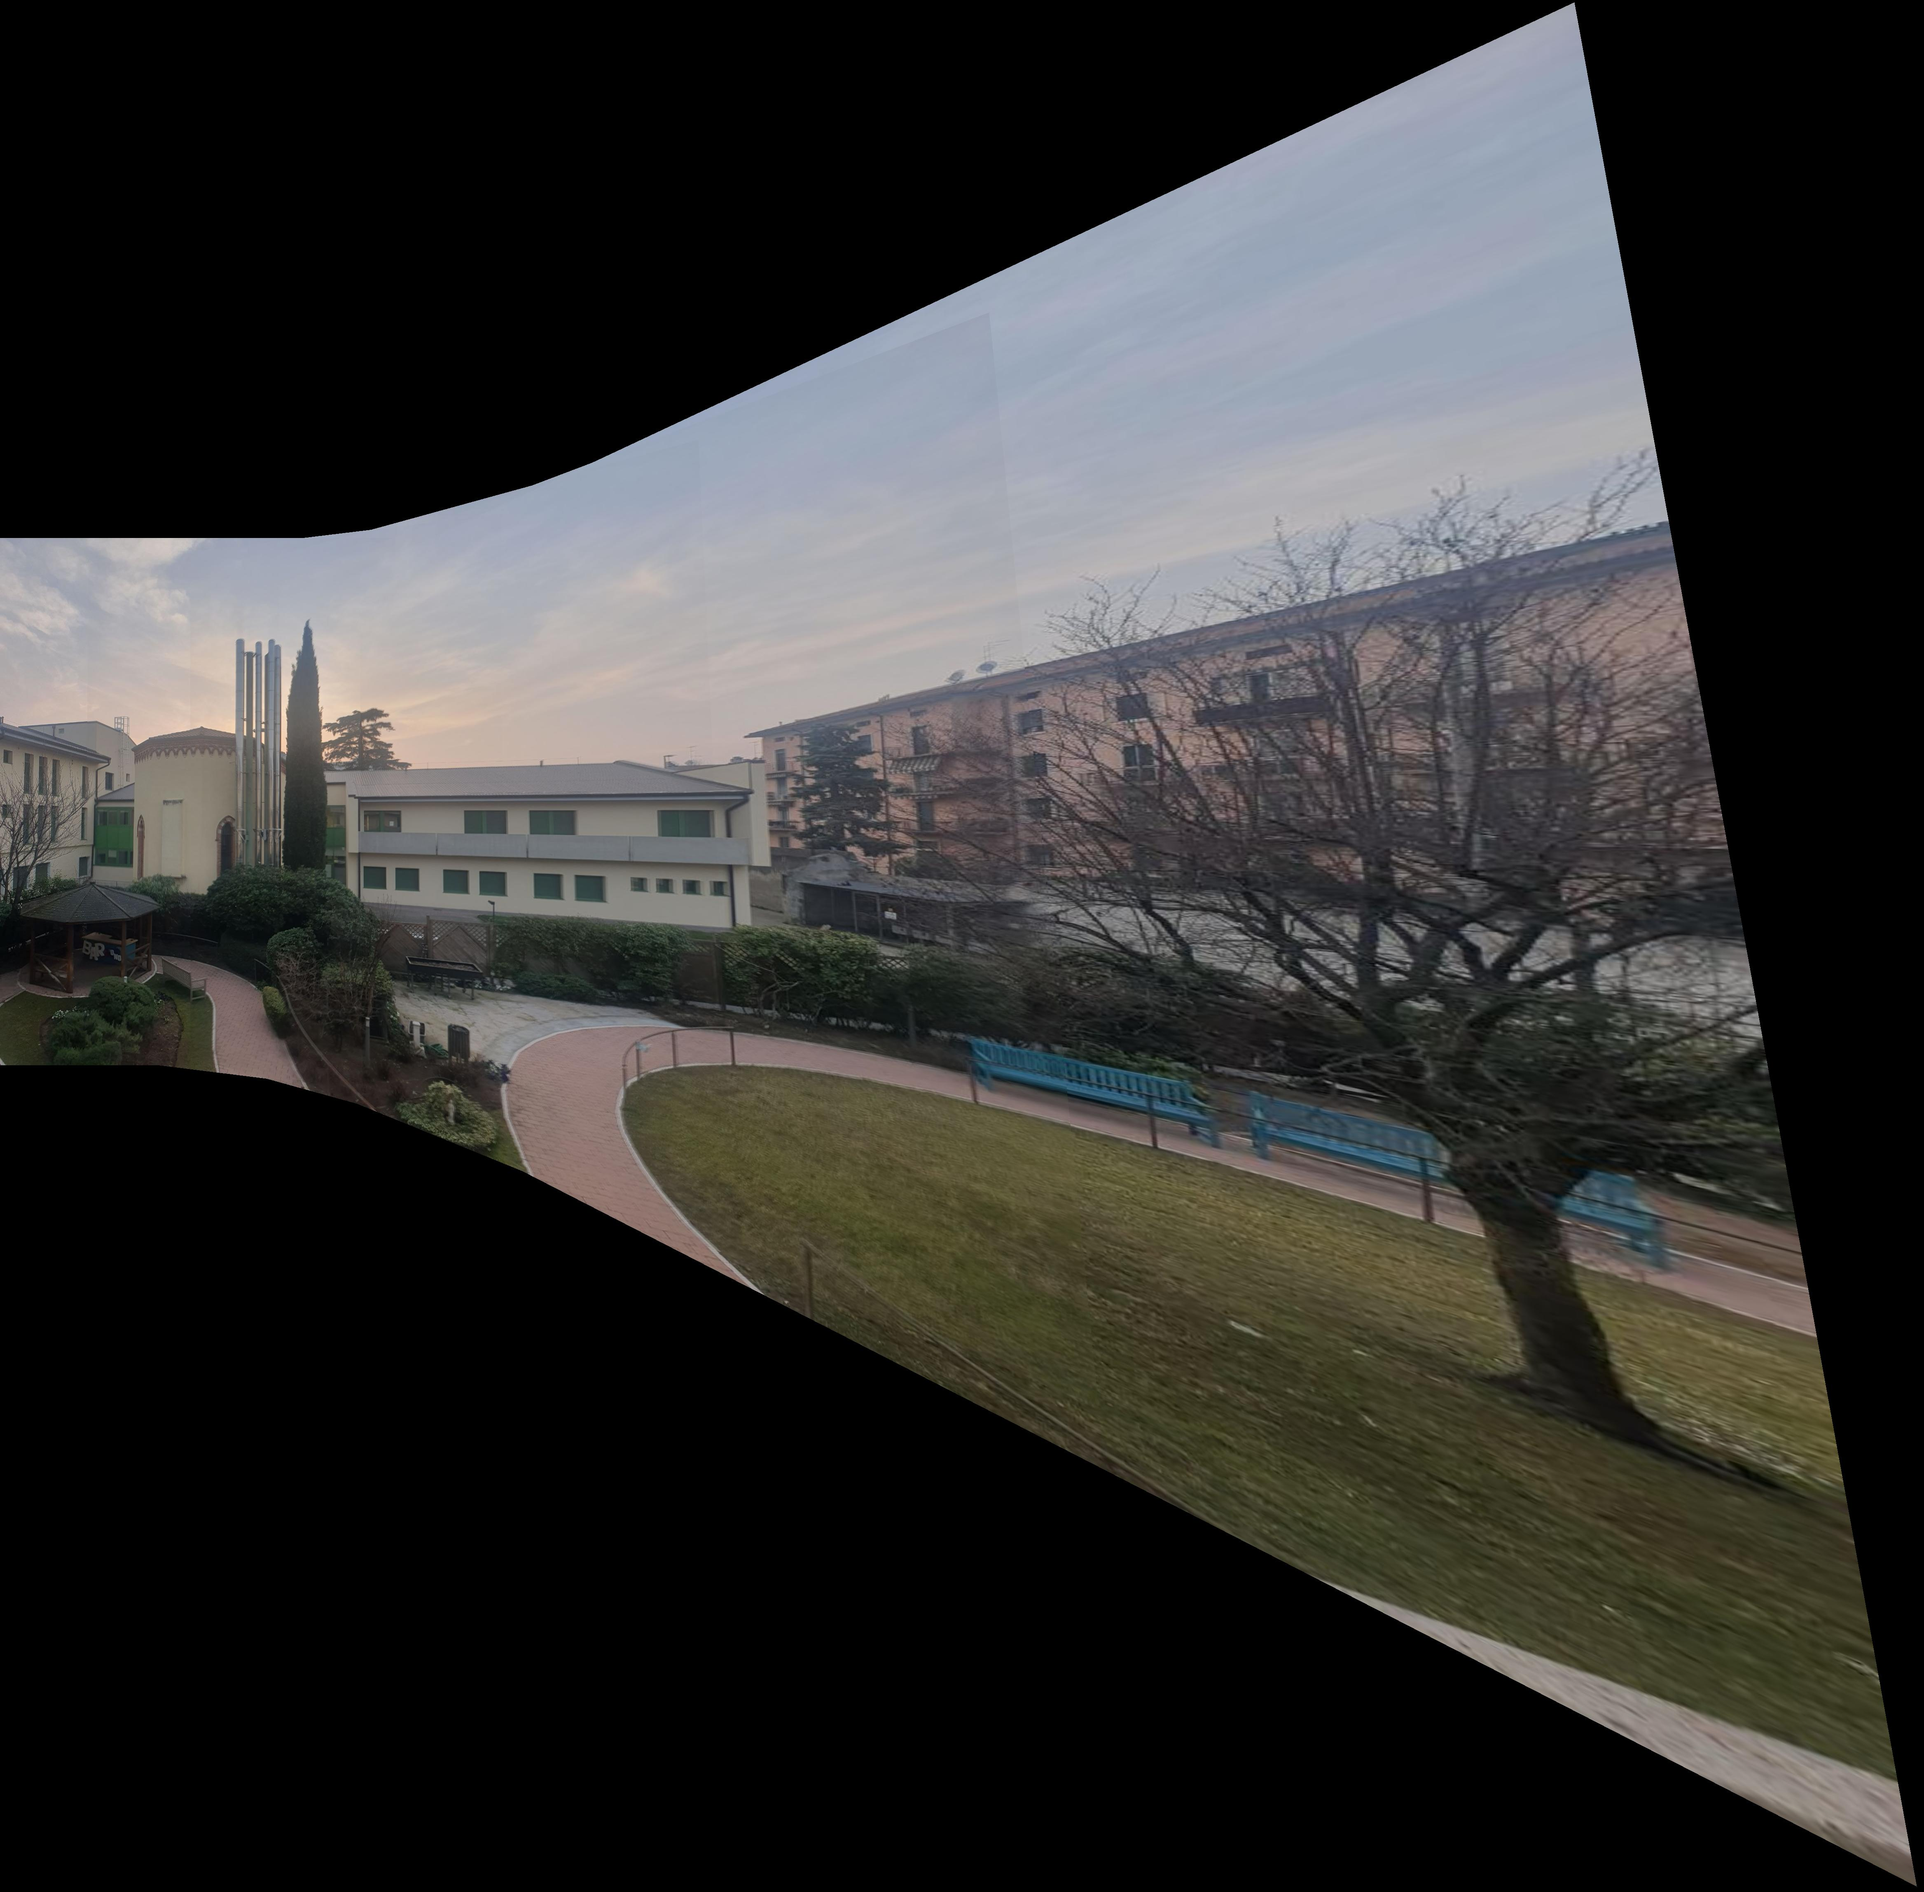
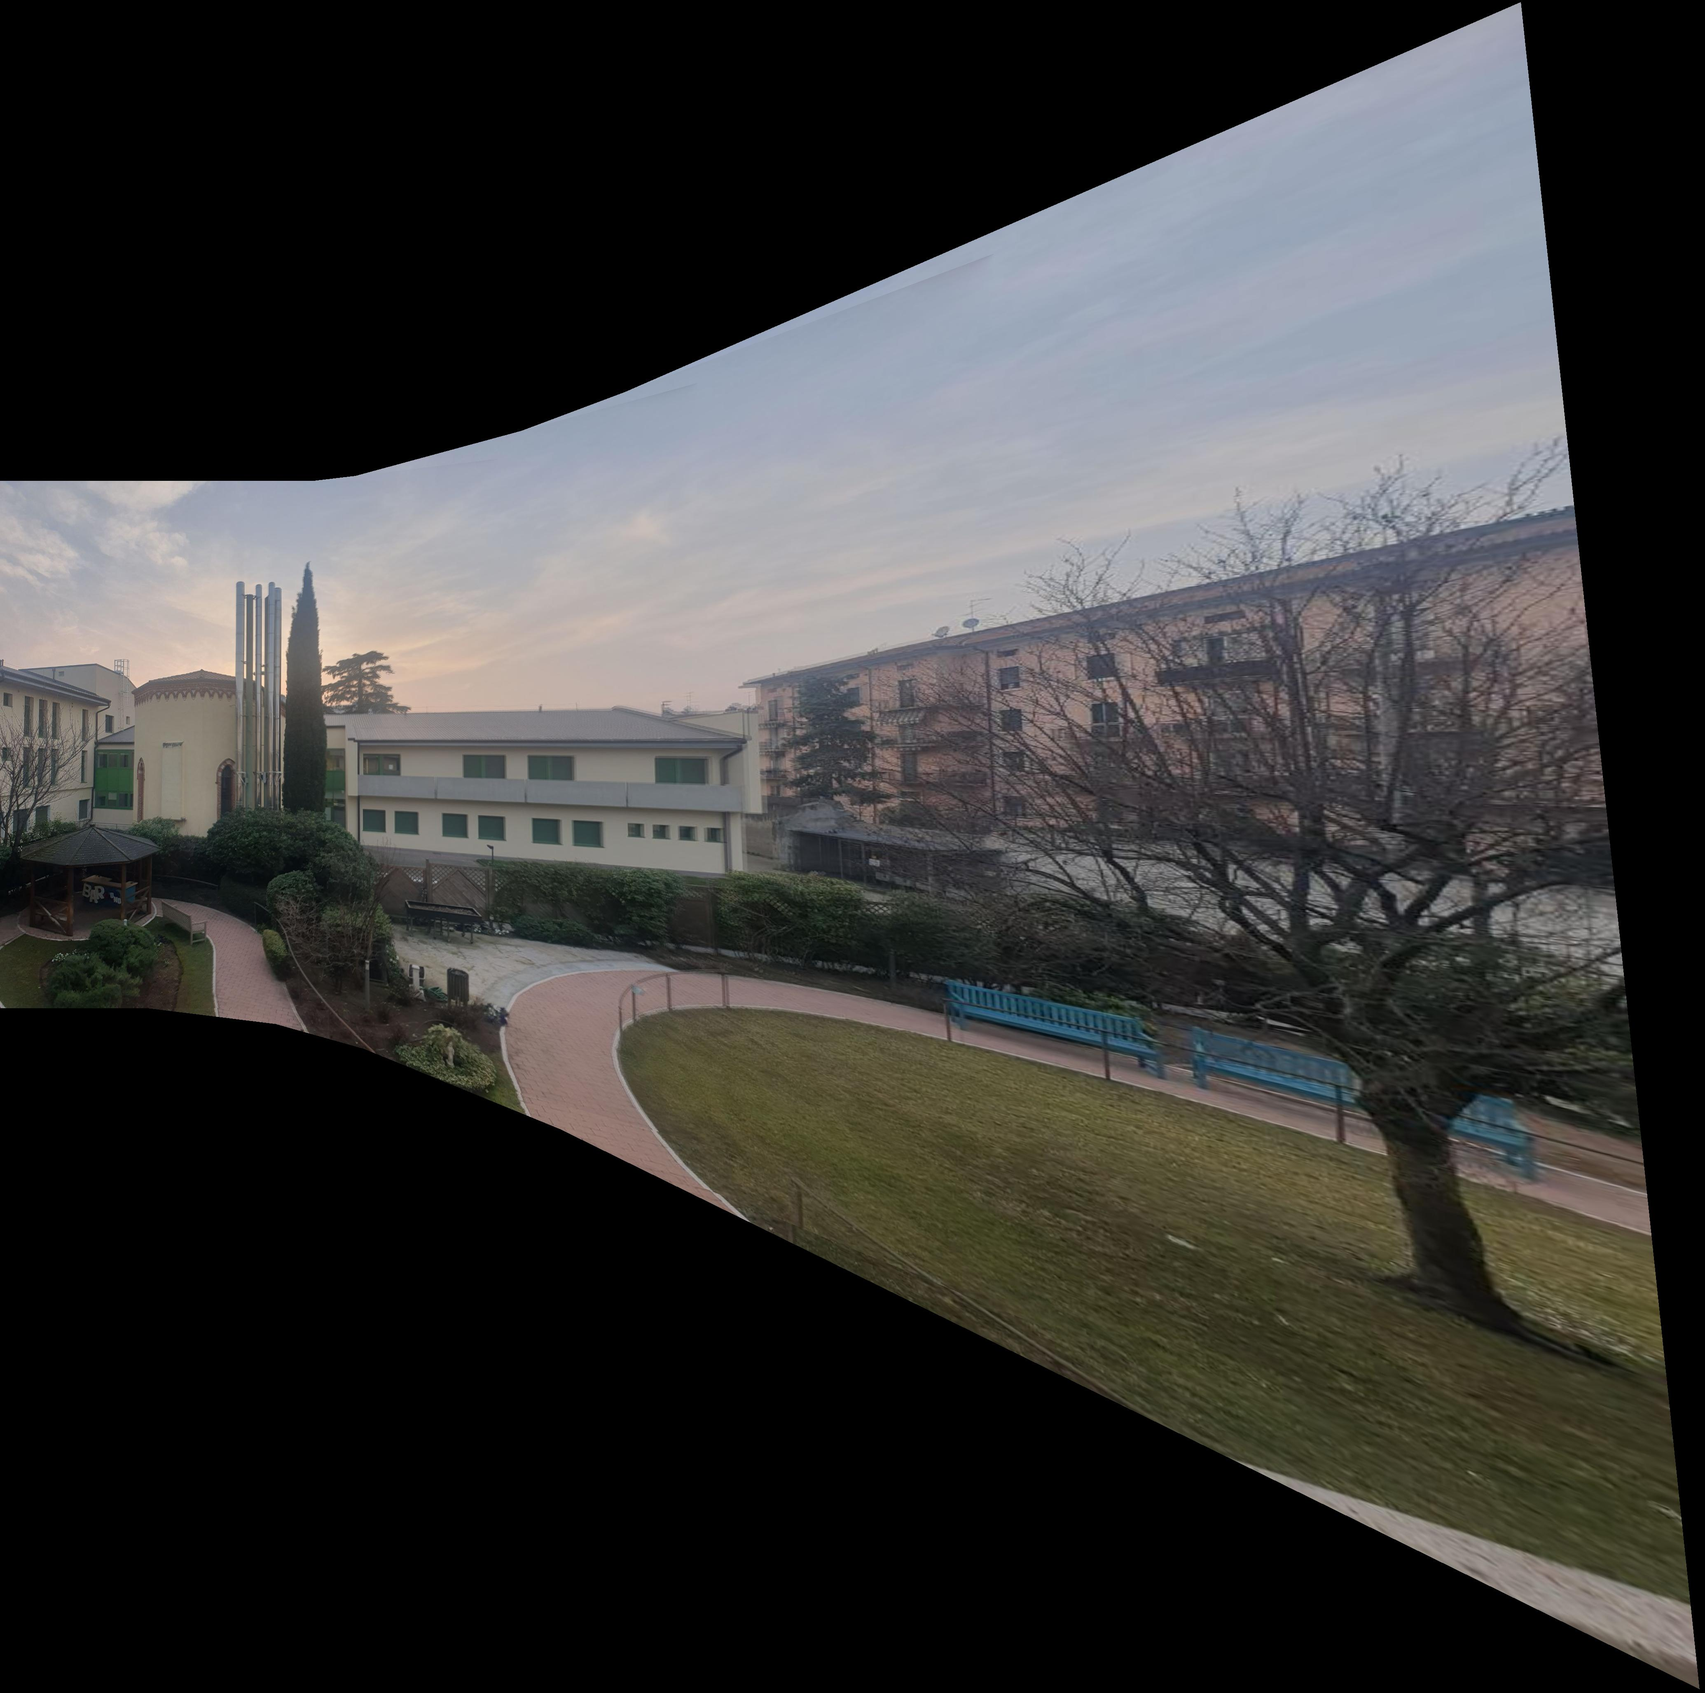
Implemented alpha blending

diff --git a/scripts/image_merge.m b/scripts/image_merge.m
@@ -3,8 +3,9 @@
 %                           image_merge.m
 %
 %   This function merges two images given the homography H between them.
-%   The function also performs image blending if requested, by averaging
-%   the pixel intensities in the overlapping areas.
+%   The function also performs image blending with 2 available modes:
+%       - 'average': averages pixel intensities in the overlapping region
+%       - 'linear': applies linear alpha blending
 %
 %   Author: Lorenzo Busellato, VR472249, 2023
 %
@@ -50,7 +51,8 @@ function I = image_merge(img1_rgb, img2_rgb, H, params)
     end
     % Compose the images
     I = mosaic_ref + mosaic_mov;
-    if params.blending
+    % Apply blending
+    if strcmp(params.blending, 'average')
         % Get a mask for the overlapping part
         mask_ref = mosaic_ref ~= 0;
         mask_mov = mosaic_mov ~= 0;
@@ -58,6 +60,43 @@ function I = image_merge(img1_rgb, img2_rgb, H, params)
         % Working channel-by-channel introduces some holes in the mask
         mask = imfill(mask,'holes'); 
         % Blend the overlap by taking the weighted average of the images intensities
-        I(mask) = (1-params.alpha).*mosaic_ref(mask) + params.alpha.*mosaic_mov(mask);
+        I(mask) =0.5*(mosaic_ref(mask) + mosaic_mov(mask));
+    elseif strcmp(params.blending, 'linear')
+        % Get a mask for the overlapping part
+        mask_ref = mosaic_ref ~= 0;
+        mask_mov = mosaic_mov ~= 0;
+        mask = mask_ref & mask_mov;
+        % Working channel-by-channel introduces some holes in the mask
+        mask = imfill(mask,'holes'); 
+        % Remove the overlap, the blending will take care of it
+        I(mask) = 0;
+        % Create an alpha mask
+        alpha_mask = zeros(size(mask,1),size(mask,2));
+        for j = 1:size(mask,1)
+            minIdx = -1;
+            maxIdx = -1;
+            % For the current row, get the first and last column of the overlap
+            for k = 1:size(mask,2)
+                if mask(j,k) && minIdx == -1
+                    minIdx = k;
+                end
+                if  mask(j,k)
+                    maxIdx = k;
+                end
+            end
+            if minIdx == maxIdx
+                continue
+            end
+            % Create a gradient in the overlap
+            decrease_step = 1/(maxIdx - minIdx);
+            for m = minIdx:maxIdx+1
+                alpha_mask(j,m) = 1 - decrease_step*(m-minIdx);
+            end
+        end
+        % Extract the parts of the images that overlap
+        mr = uint8(double(mask).*mosaic_ref);
+        mm = uint8(double(mask).*mosaic_mov);
+        % Apply alpha blending
+        I = uint8(I) + uint8(alpha_mask.*double(mr) + (1-alpha_mask).*double(mm));
     end
 end

diff --git a/scripts/mosaicing.m b/scripts/mosaicing.m
@@ -28,11 +28,10 @@ function mosaic = mosaicing(params)
         params.ransac_thresh = i * 2 * params.ransac_thresh;
         % Load the next image
         img2_rgb = imread(strjoin({set(i).folder,set(i).name},'/'));
-        img2 = single(im2gray(img2_rgb));
         fprintf("Computing feature descriptors\n");
         % Compute both images features and descriptors
         [feat1, desc1] = vl_sift(single(im2gray(uint8(mosaic))));
-        [feat2, desc2] = vl_sift(img2);
+        [feat2, desc2] = vl_sift(single(im2gray(img2_rgb)));
         % Match the descriptors
         [matches, scores] = vl_ubcmatch(desc1, desc2);
         % Apply RANSAC to the y coordinates
@@ -46,7 +45,7 @@ function mosaic = mosaicing(params)
         fprintf("Computing homography with %s\n", set(i).name);
         if params.ransac
             % Robust homography computation with RANSAC
-            H = ransac_homography(feat1, feat2, matches, params);
+            H(:,:,i)  = ransac_homography(feat1, feat2, matches, params);
         else
             % Pick 4 random features and correspondences
             r1 = ceil(rand*length(matches));
@@ -62,10 +61,10 @@ function mosaic = mosaicing(params)
                   feat2(1:2, matches(2,r3))'
                   feat2(1:2, matches(2,r4))'];
             % Compute the homography between them
-            H = homography(p1', p2');
+            H(:,:,i) = homography(p1', p2');
         end
         % Merge the images
-        mosaic = image_merge(mosaic, img2_rgb, H, params);
+        mosaic = image_merge(mosaic, img2_rgb, H(:,:,i), params);
     end
     mosaic = uint8(mosaic);
     % Save the result

diff --git a/scripts/imwarp.m b/scripts/imwarp.m
@@ -23,6 +23,8 @@ function [I2, bb] = imwarp(I,H)
     xi=ivec(pp(1,:)',size(x,1));
     yi=ivec(pp(2,:)',size(y,1));
     I2(:,:,1)=interp2(0:size(I(:,:,1),2)-1, 0:size(I(:,:,1),1)-1,double(I(:,:,1)),xi,yi,'linear',NaN);
-    I2(:,:,2)=interp2(0:size(I(:,:,2),2)-1, 0:size(I(:,:,2),1)-1,double(I(:,:,2)),xi,yi,'linear',NaN);
-    I2(:,:,3)=interp2(0:size(I(:,:,3),2)-1, 0:size(I(:,:,3),1)-1,double(I(:,:,3)),xi,yi,'linear',NaN);
+    if(size(I,3) > 1)
+        I2(:,:,2)=interp2(0:size(I(:,:,2),2)-1, 0:size(I(:,:,2),1)-1,double(I(:,:,2)),xi,yi,'linear',NaN);
+        I2(:,:,3)=interp2(0:size(I(:,:,3),2)-1, 0:size(I(:,:,3),1)-1,double(I(:,:,3)),xi,yi,'linear',NaN);
+    end
 end

diff --git a/main.m b/main.m
@@ -22,17 +22,15 @@ addpath(genpath("mosaics/"));
 %% PARAMETERS
 
 % IMAGE SET
-params.set =1;
+params.set = 2; % Image set to use
 % RANSAC
-params.ransac = true;
-params.ransac_thresh = 0.01;
-params.ransac_iter = 500;
+params.ransac = true; % Use RANSAC or not
+params.ransac_thresh = 0.1; % Inlier tolerance for RANSAC on features
+params.ransac_iter = 1000; % Maximum iterations for RANSAC
 % HOMOGRAPHY
-params.pixel_tolerance = 5;
+params.pixel_tolerance = 5; % Inlier tolerance for RANSAC on homography
 % IMAGE BLENDING
-params.blending = true;
-params.alpha = 0.5;
-
+params.blending = 'linear'; % 'none', 'average', 'linear'
 %% MOSAICING
 
 mosaic = mosaicing(params);
